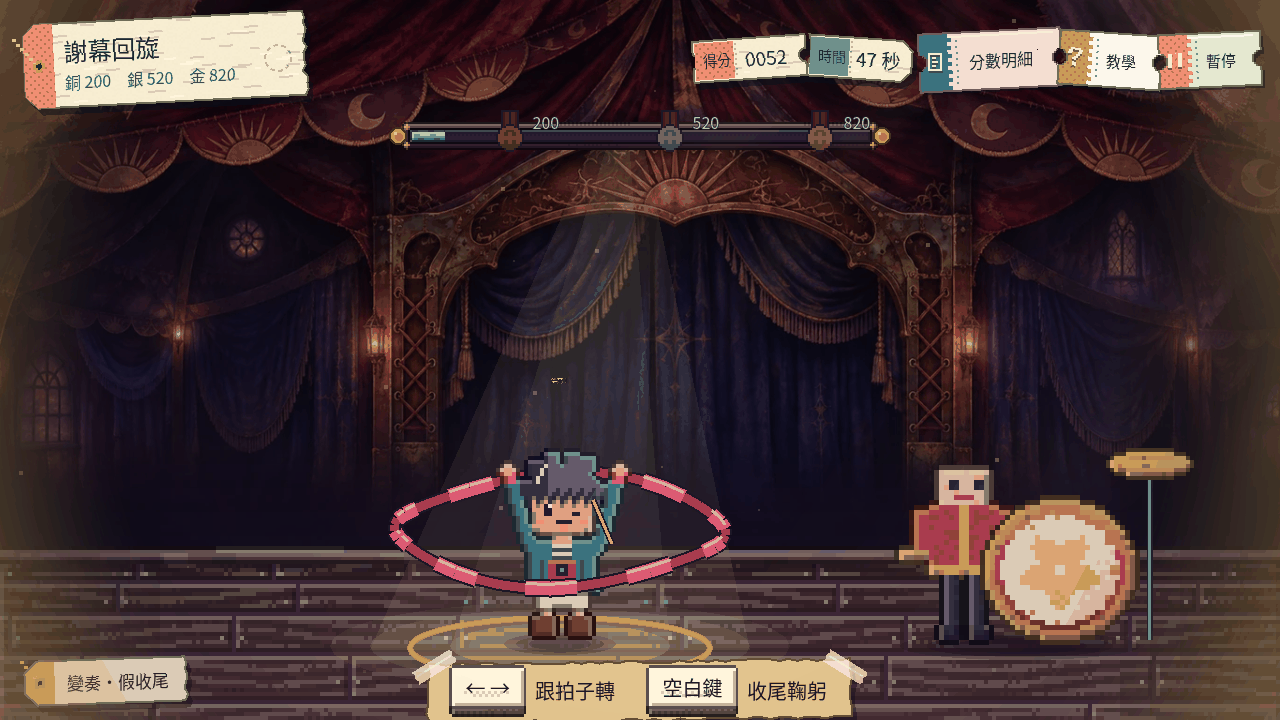
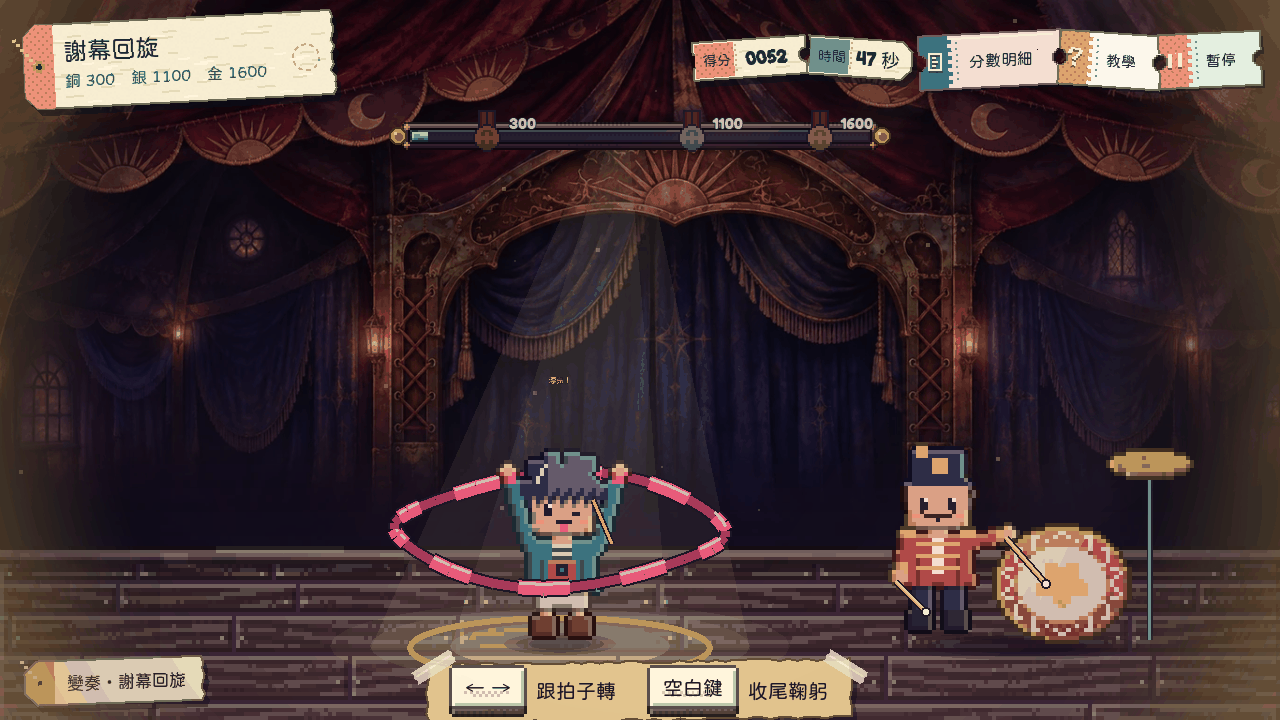
feat: redraw the ribbon spin drummer on the hero's build and lace the bass drum (SG-86)

diff --git a/pm/Snapland-small-game/[SG-86]實作謝幕回旋.md b/pm/Snapland-small-game/[SG-86]實作謝幕回旋.md
@@ -62,3 +62,25 @@
 ### 截圖
 
 ![節奏亂掉，主角被絲帶捆成木乃伊蹦蹦跳](images/SG-86-ribbon-mummy.png)
+
+# Commit-2
+
+## 內文
+
+鼓手原本是方頭、平臉、沒有明暗的積木人，和主角與華麗的舞台格格不入，大鼓的鼓框也只是一圈素色。
+現在鼓手和主角用同一套像素人物骨架畫成：有明暗的臉與八字鬍、戴著插羽毛和金徽章的高筒軍帽、紅色樂隊外套配金色胸前飾帶與肩章、深藍長褲，表情跟著場面變（換拍時得意、收尾鼓聲時睜大眼、鞠躬時開心）。他站在大鼓旁，平常每一拍把鼓棒舉起再敲在鼓面上，要換拍時兩手把鼓棒高高舉起，收尾打鼓時兩支鼓棒快速交替。大鼓的鼓框兩道黃銅圈之間繞著一圈之字形的拉緊繩，鼓面中央是金色星星。
+主角在共用的人物圖裡沒有改變；其他小遊戲之後也能用同一套骨架畫出不同裝扮的園區人物。
+在原生畫面逐張看過跟拍、換拍預告、收尾鼓聲與鞠躬時的鼓手，修掉了大鼓擋住鼓手的臉與上半身、以及打鼓的鼓棒被鼓蓋住兩個問題。
+
+### 測試結果
+
+| 項目 | 結果 |
+|---|---|
+| 謝幕回旋規則 | 通過 |
+| 街機共用流程 | 通過 |
+| 原生畫面 | 遊玩過程無 ERROR；主角在共用人物圖下外觀不變 |
+
+### 截圖
+
+![換上和主角同一套骨架的鼓手，站在繞著拉緊繩的大鼓旁](images/SG-86-drummer.png)
+
